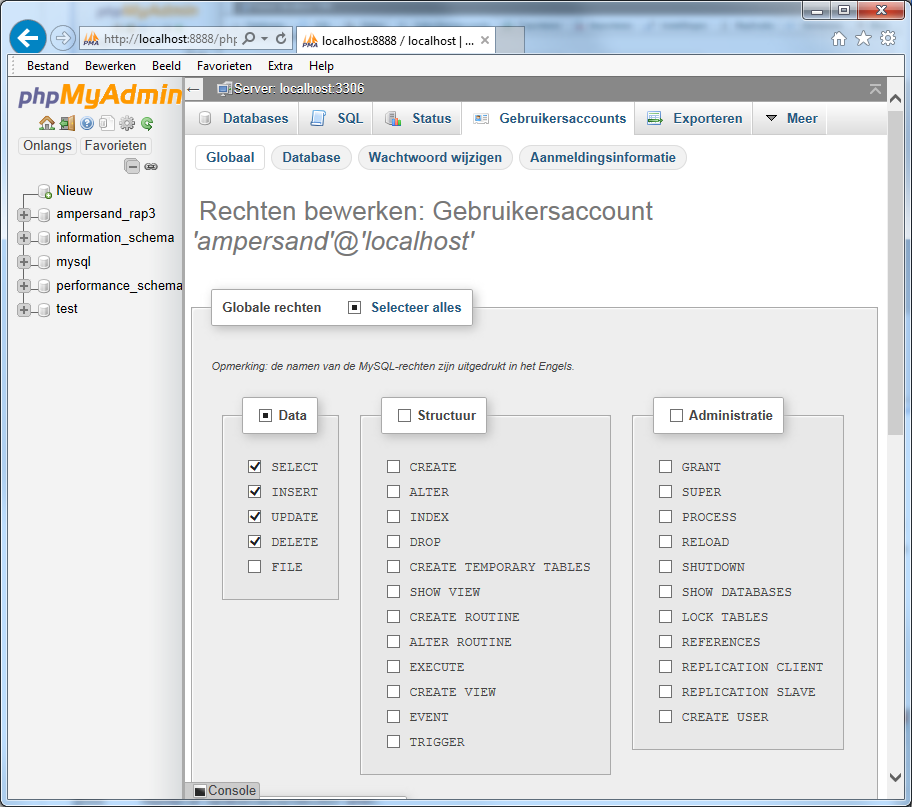
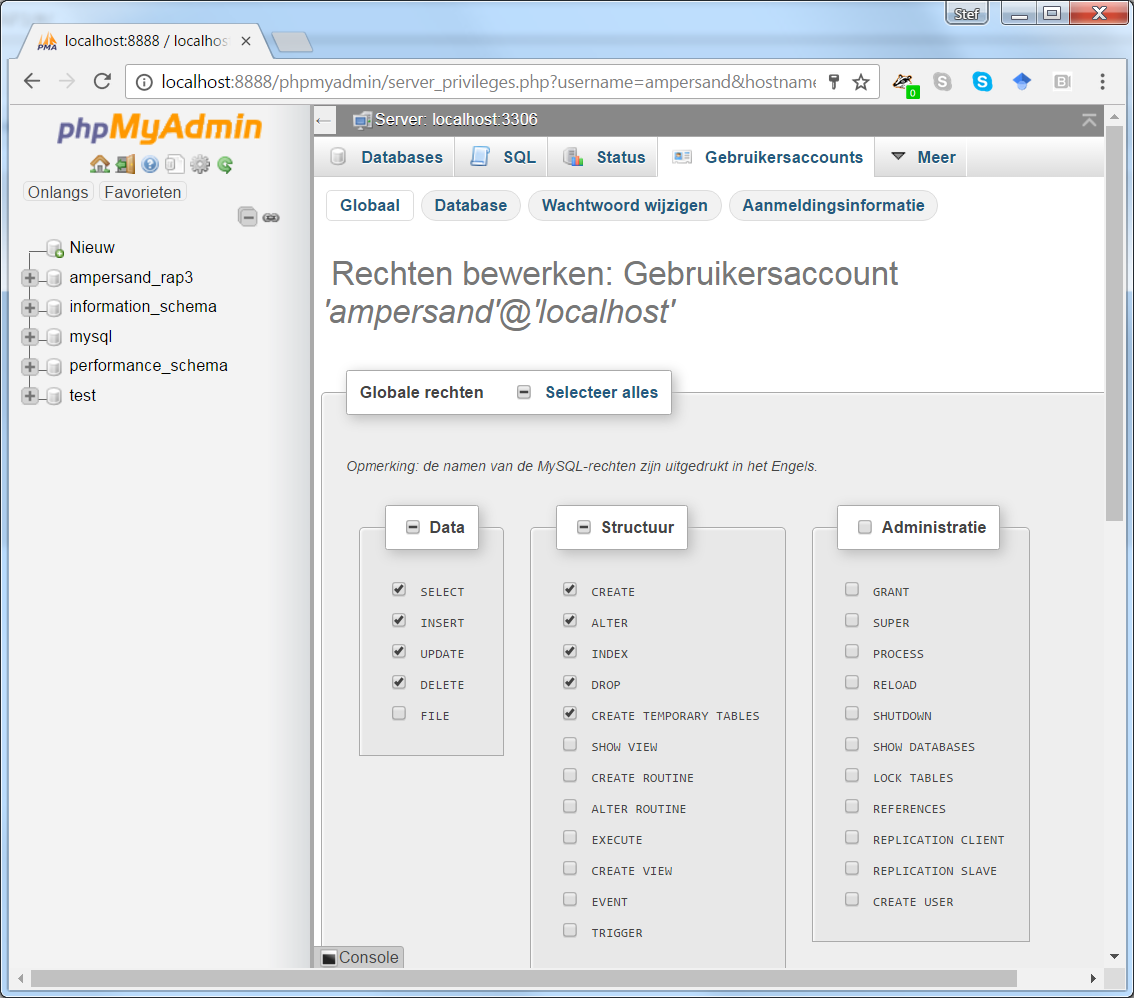
Updates deploying-ounl-rap3.md
Auto commit by GitBook Editor

Changed region(s): [[0.0, 0.0, 1.0, 1.0], [0.7061, 0.4957, 0.9211, 0.9294]]

diff --git a/deploying-ounl-rap3.md b/deploying-ounl-rap3.md
@@ -77,7 +77,7 @@ However, here the procedure failed:
 
 After logging into phpMyAdmin, create a user called 'ampersand' with password 'ampersand' and host 'localhost', in compliance with the defaults used in the Ampersand compiler. RAP3 requires at least the following authorizations:
 
-![](/assets/MySQL authorization.png)
+![](/assets/import.png)
 
 ## 3. Uploading and running RAP3
 
